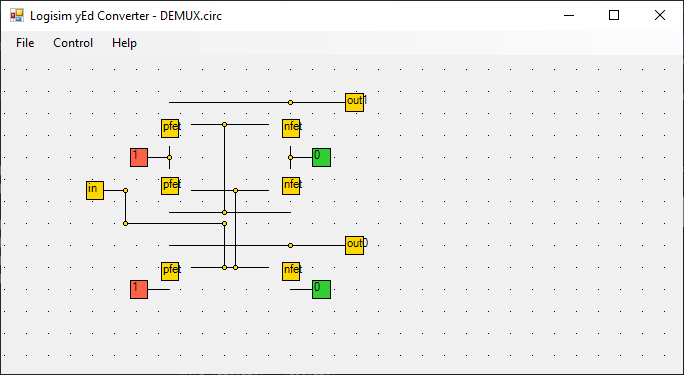
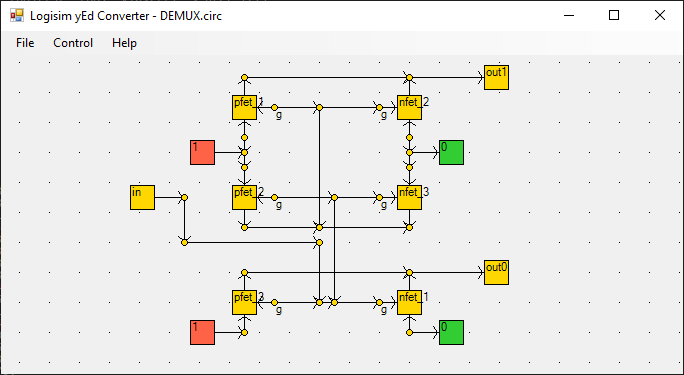
Better transistor vias handling

diff --git a/tools/LogisimYed/LogisimConverter.cs b/tools/LogisimYed/LogisimConverter.cs
@@ -401,9 +401,7 @@ namespace LogisimYed
                             new Point(bbox.X - delta, bbox.Y + bbox.Height / 2),
                             new Point(bbox.X, bbox.Y + bbox.Height / 2));
                     }
-                    sourcePad = new LogisimVias(source.From());
-                    drainPad = new LogisimVias(drain.To());
-                    gatePad = new LogisimVias(gate.From());
+
                     break;
                 case "south":
                     source = new LogisimWire(
@@ -424,9 +422,6 @@ namespace LogisimYed
                             new Point(bbox.X - delta, bbox.Y + bbox.Height / 2),
                             new Point(bbox.X, bbox.Y + bbox.Height / 2));
                     }
-                    sourcePad = new LogisimVias(source.From());
-                    drainPad = new LogisimVias(drain.To());
-                    gatePad = new LogisimVias(gate.From());
                     break;
                 case "west":
                     source = new LogisimWire(
@@ -447,9 +442,6 @@ namespace LogisimYed
                             new Point(bbox.X + bbox.Width / 2, bbox.Y - delta),
                             new Point(bbox.X + bbox.Width / 2, bbox.Y));
                     }
-                    sourcePad = new LogisimVias(source.From());
-                    drainPad = new LogisimVias(drain.To());
-                    gatePad = new LogisimVias(gate.From());
                     break;
                 case "east":
                     source = new LogisimWire(
@@ -470,11 +462,20 @@ namespace LogisimYed
                             new Point(bbox.X + bbox.Width / 2, bbox.Y - delta),
                             new Point(bbox.X + bbox.Width / 2, bbox.Y));
                     }
-                    sourcePad = new LogisimVias(source.From());
-                    drainPad = new LogisimVias(drain.To());
-                    gatePad = new LogisimVias(gate.From());
                     break;
             }
+
+            sourcePad = GetViasByLoc(model, source.From());
+            if (sourcePad == null)
+                sourcePad = new LogisimVias(source.From());
+
+            drainPad = GetViasByLoc(model, drain.To());
+            if (drainPad == null)
+                drainPad = new LogisimVias(drain.To());
+
+            gatePad = GetViasByLoc(model, gate.From());
+            if (gatePad == null)
+                gatePad = new LogisimVias(gate.From());
 
             int nextId = GetNextId(model);
 
@@ -600,6 +601,16 @@ namespace LogisimYed
                     }
                 }
             }
+        }
+
+        public static LogisimVias GetViasByLoc(LogisimModel model, Point loc)
+        {
+            foreach (var vias in model.viases)
+            {
+                if (vias.loc.Equals(loc))
+                    return vias;
+            }
+            return null;
         }
 
         public class LogisimNode
